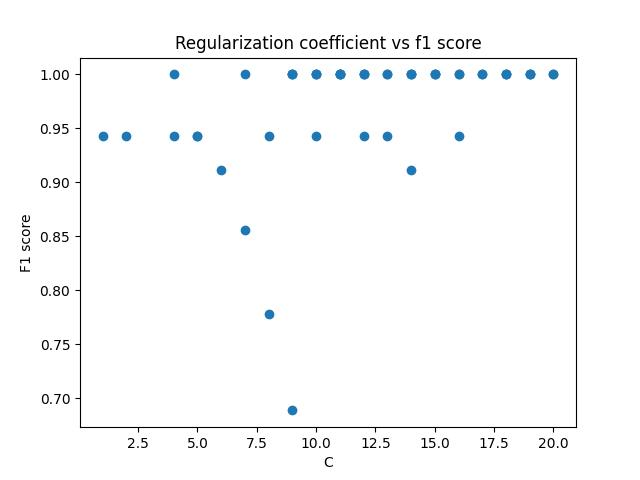
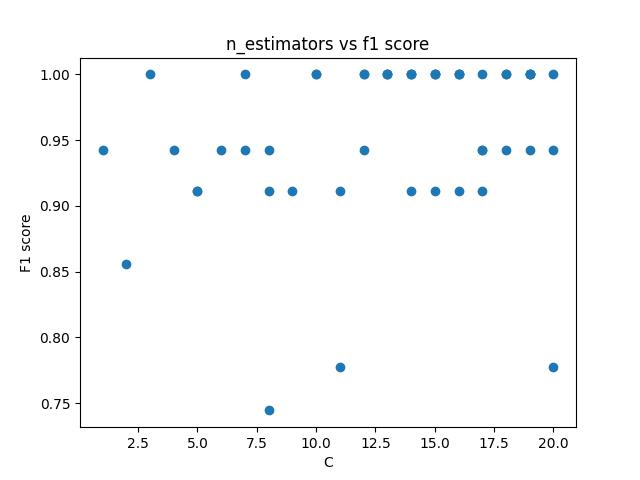
Renamed label on plot

diff --git a/src/driver.py b/src/driver.py
@@ -54,7 +54,7 @@ n_estimators_optimal = study.best_params['n_estimators']
 
 #Hyperparameter optimization graph
 pyplot.figure()
-pyplot.title("Regularization coefficient vs f1 score")
+pyplot.title("n_estimators vs f1 score")
 pyplot.xlabel("C")
 pyplot.ylabel("F1 score")
 pyplot.scatter(n_estimators_values, random_forest_f1_scores)
